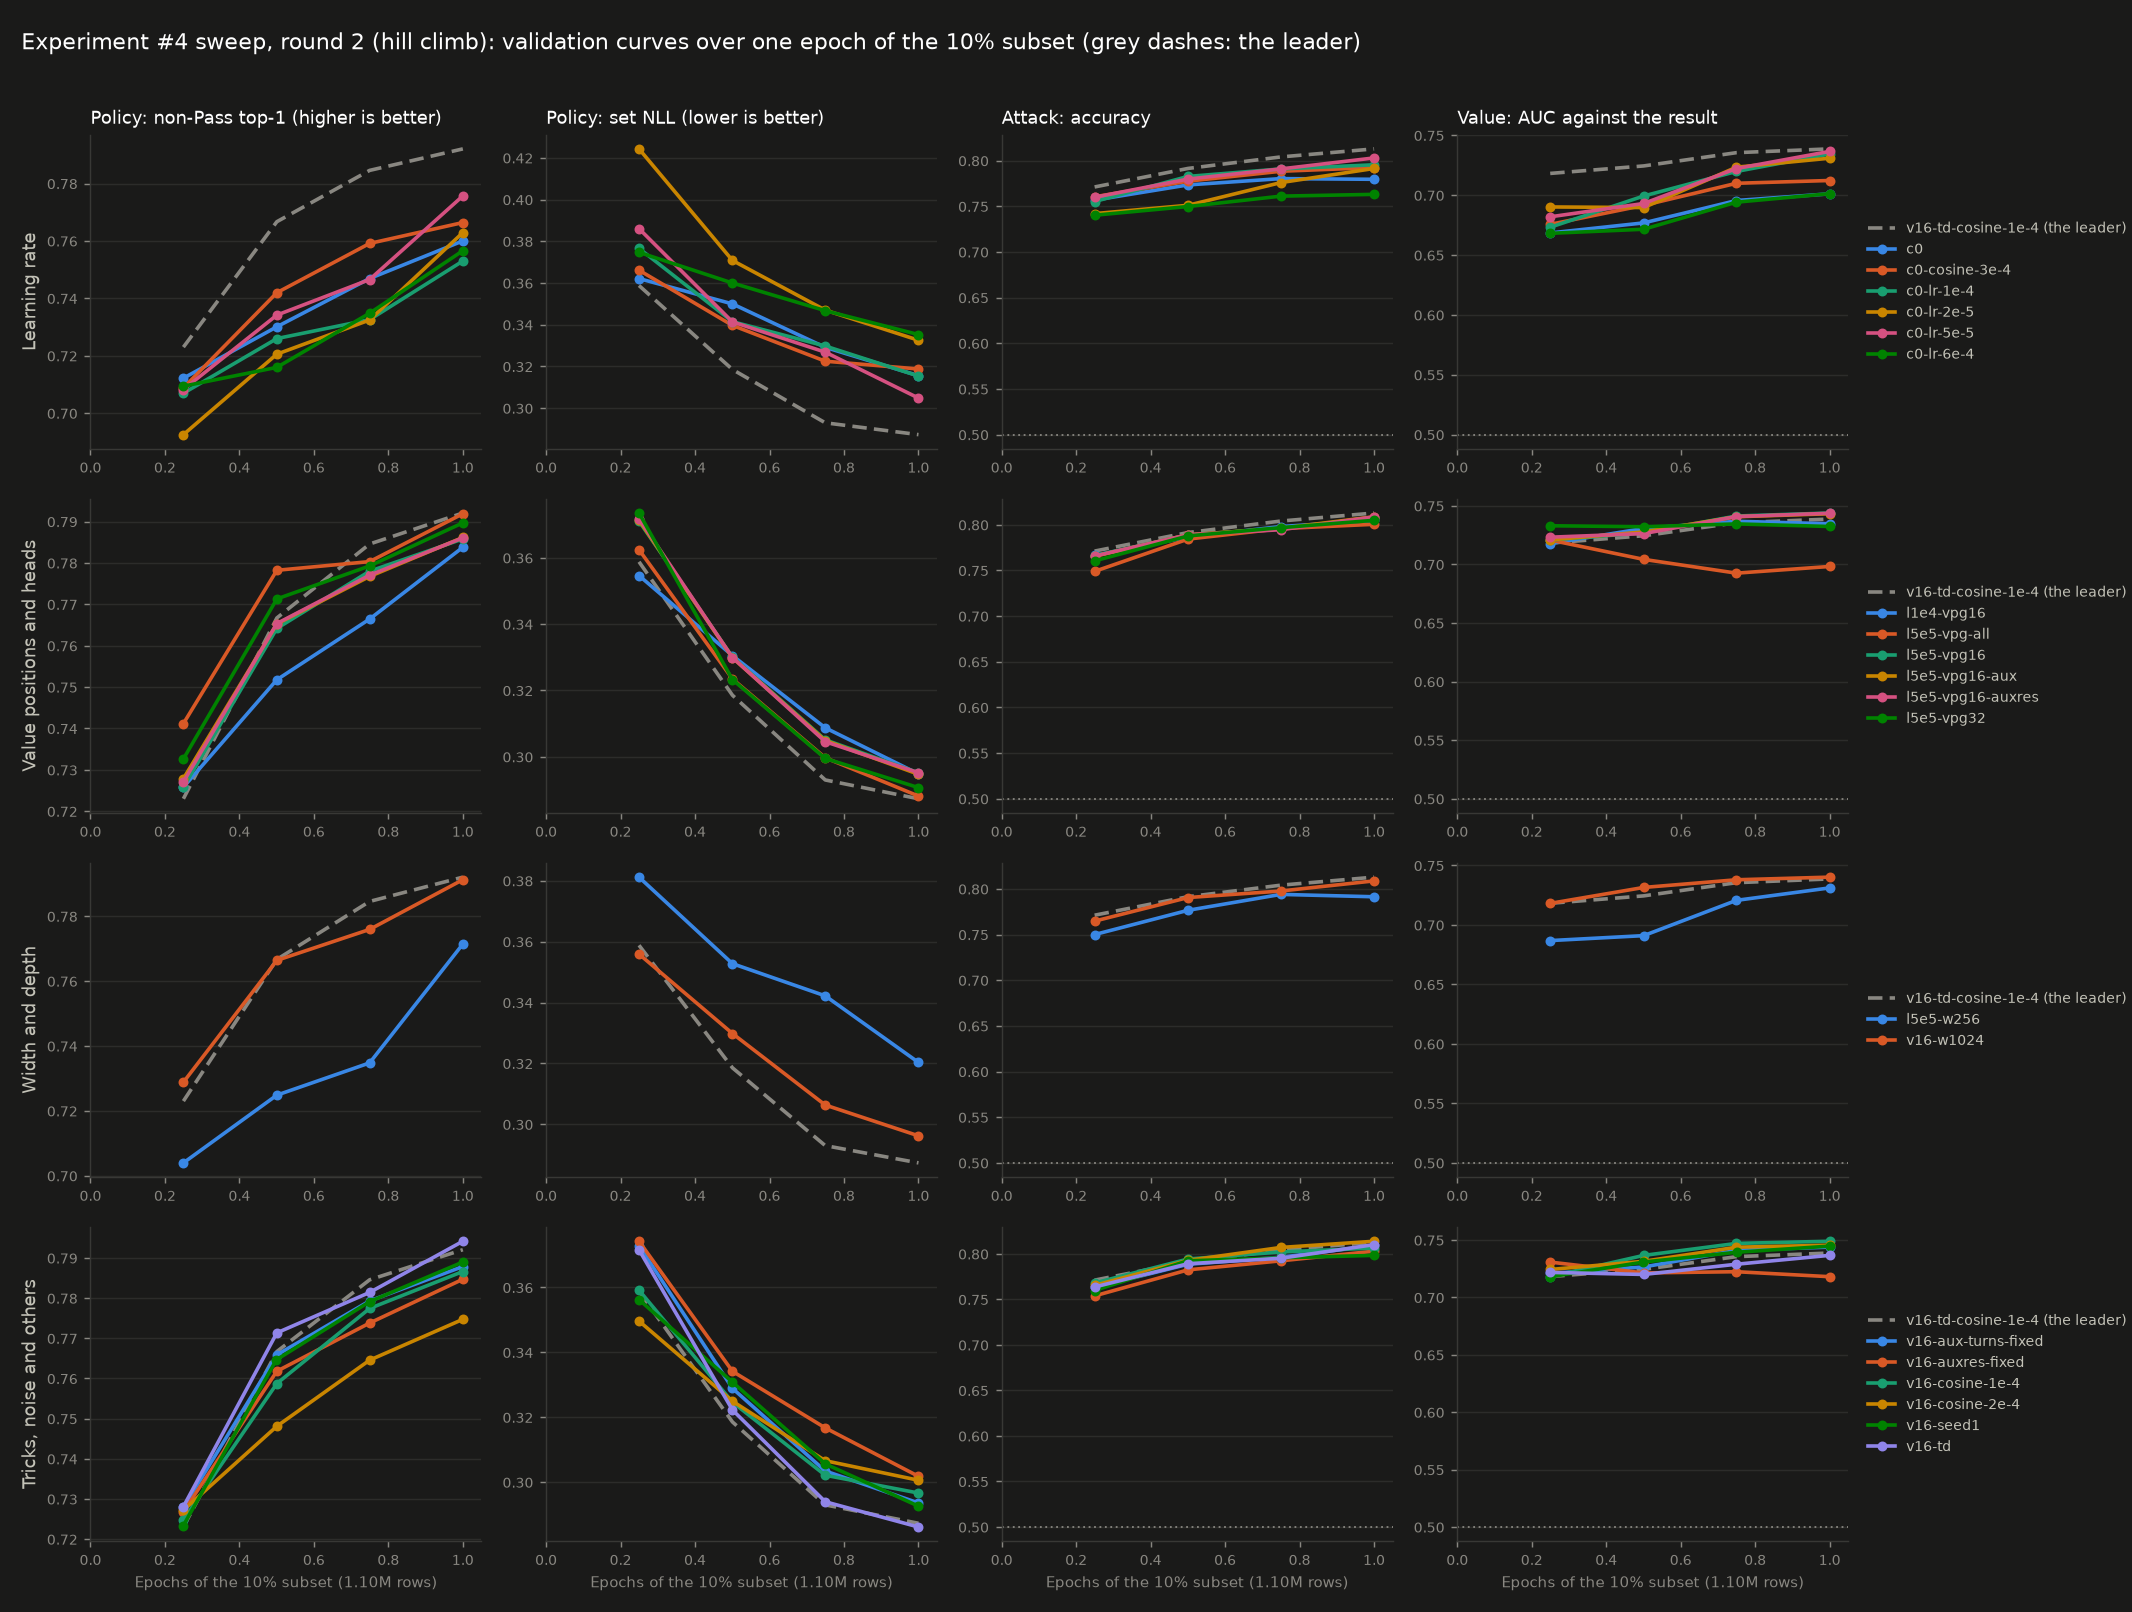
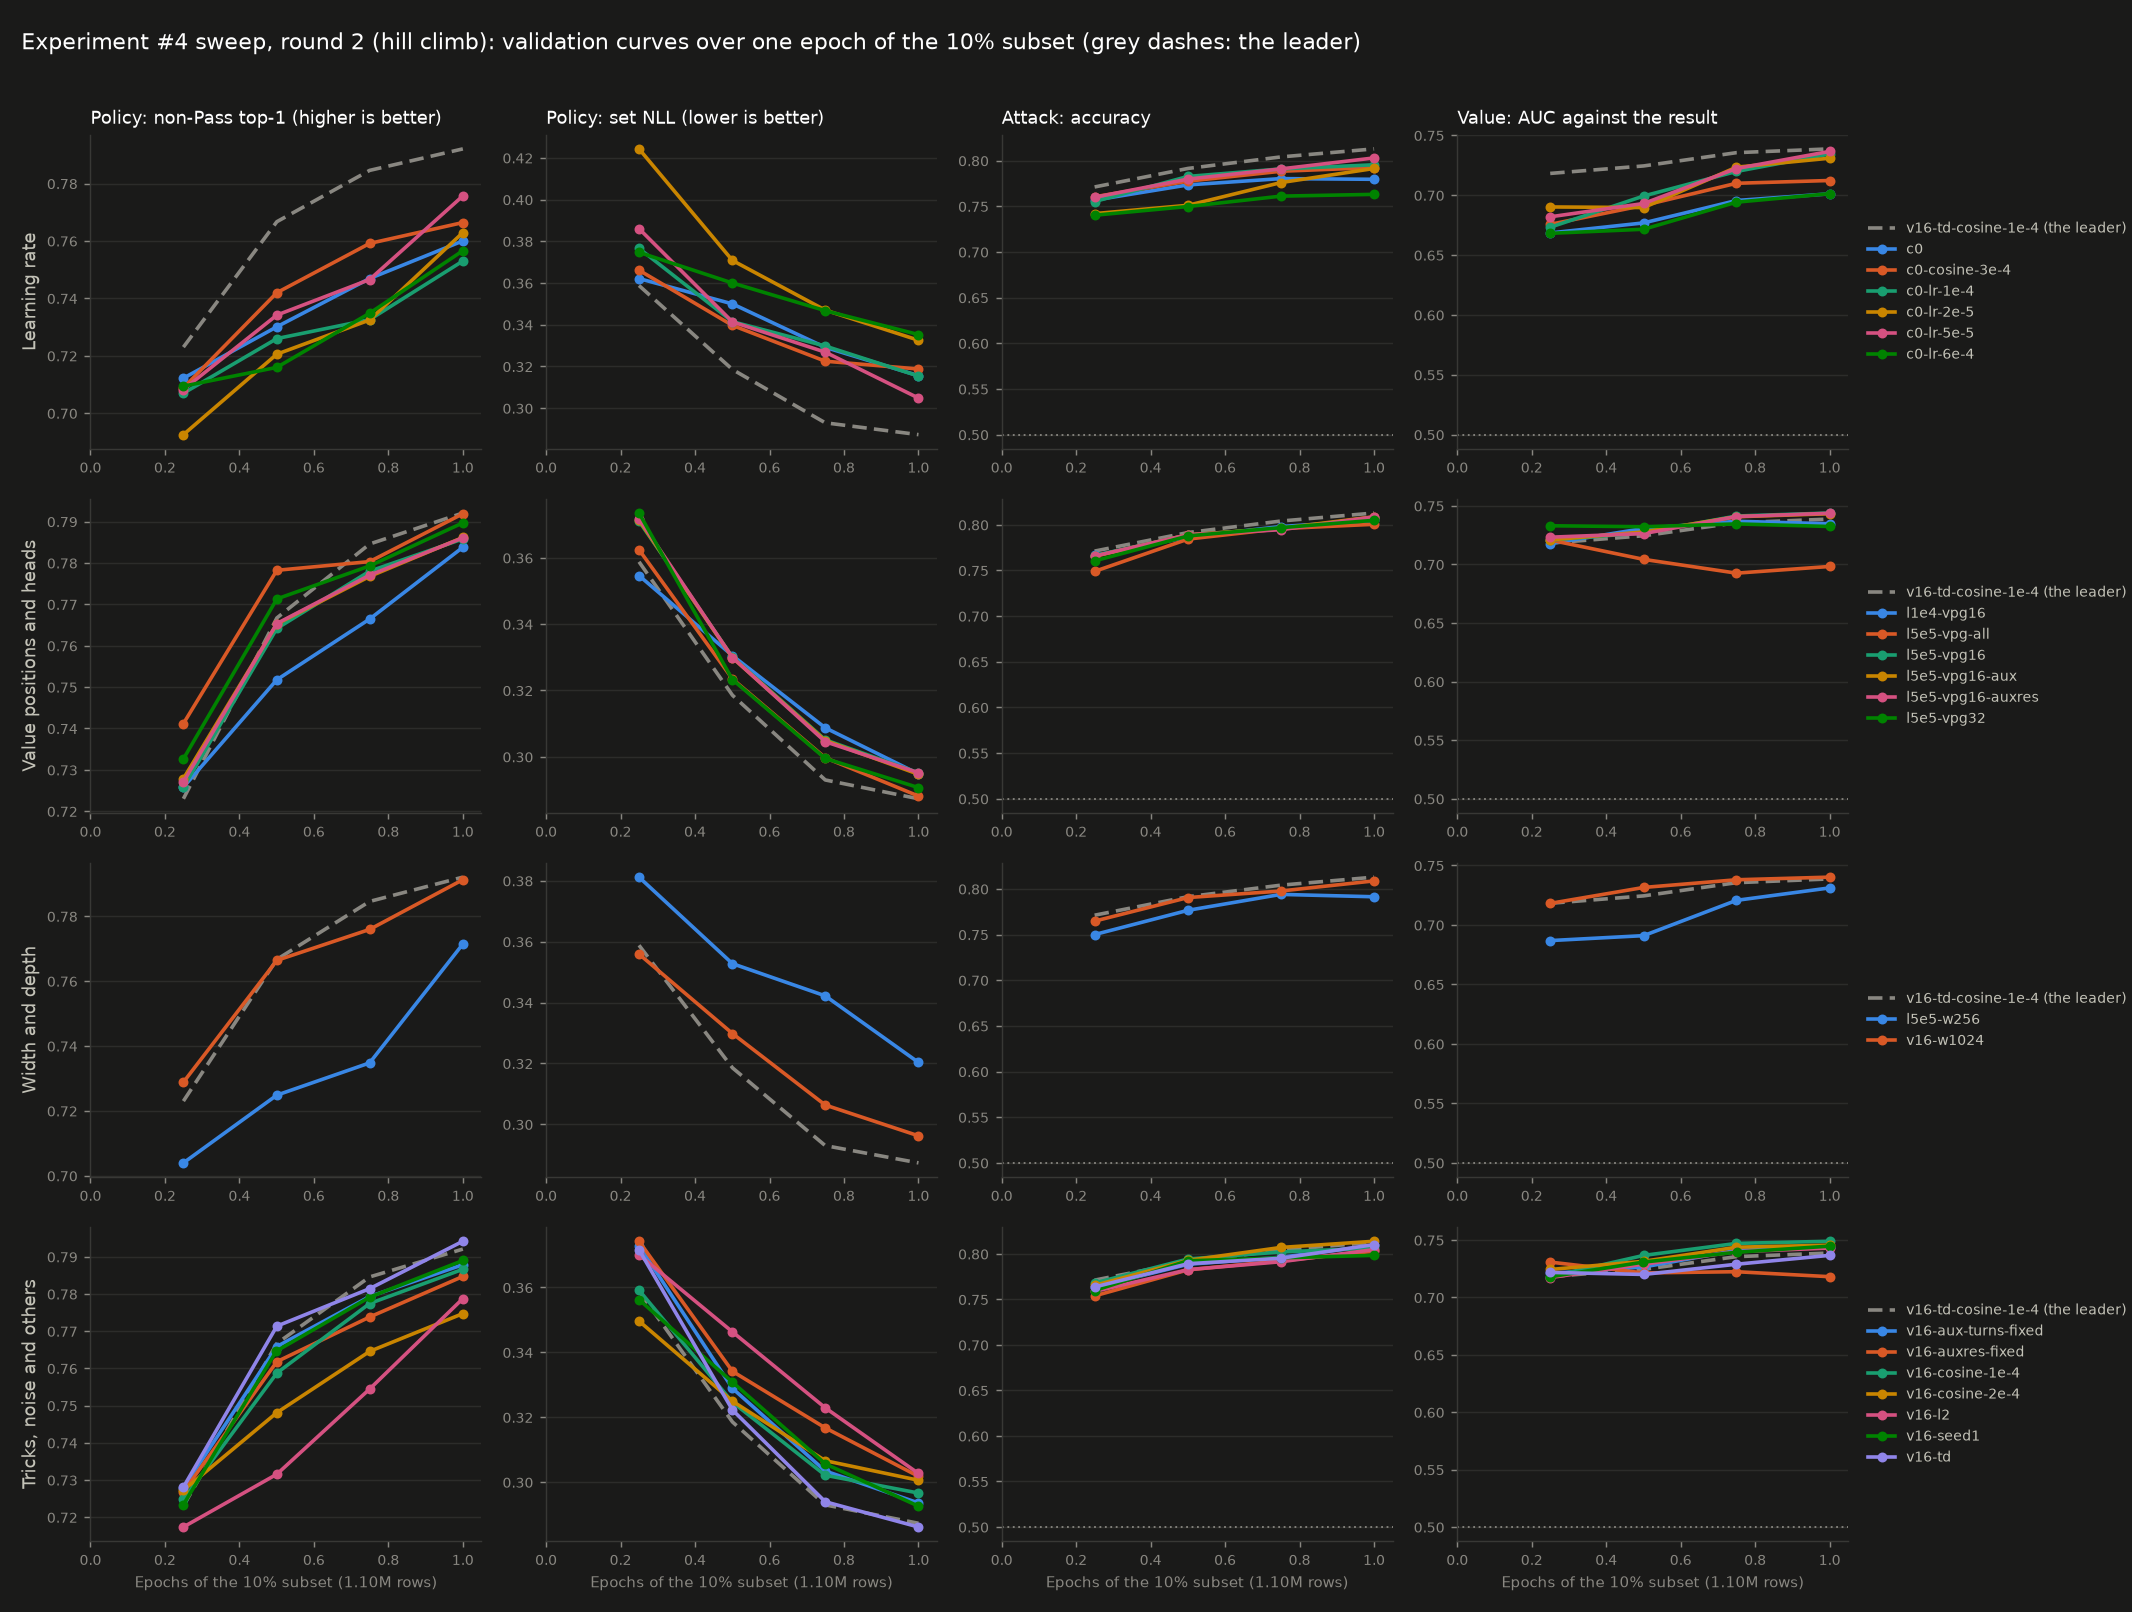
exp4: 30% data beats every recipe change (NLL 0.262 vs 0.287); queue ep3 (3 epochs of 10%) to split data from steps

Changed region(s): [[0.0619, 0.7754, 0.2167, 0.9615], [0.8668, 0.8065, 1.0, 0.8995]]

diff --git a/docs/018-experiment4-results.md b/docs/018-experiment4-results.md
@@ -290,10 +290,16 @@ first 1-layer run, stopped at 1.08 epochs, was restarted.
 | `v16-td-cosine-1e-4` | the two small gains combine: TD for the policy, cosine from 1e-4 for the value | non-Pass 0.792 (+0.006), NLL 0.287 (−0.008), attack 0.813 (+0.005), block 0.704 (+0.007), value AUC 0.739 (−0.005), log-loss 0.599 (−0.004) against l5e5-vpg16 | **the new leader:** TD's policy gain (at or past the noise bar) with the value as good as before (cosine stops TD's log-loss slip, 0.617 to 0.599). The 30% check switches to this recipe |
 | `v16-auxres-fixed` | the result head, now actually trained: the trunk gets the outcome signal on every position while the value head keeps 16 | non-Pass 0.785 (−0.001), NLL 0.302 (+0.007), value AUC 0.718 (−0.026), log-loss 0.677 (+0.074) against l5e5-vpg16 (the same recipe without it); its aux loss fell 0.36 to 0.27 (memorising) while the value log-loss rose from 0.613 | rejected: no policy gain, and the value overfits through the trunk (the trunk learns to recognise games) |
 | `v16-aux-turns-fixed` | a turns-left head, now actually trained, helps the shared trunk | every measure within ±0.005 of l5e5-vpg16 (non-Pass 0.788, NLL 0.294, value AUC 0.744); its aux loss trained (0.033) | neutral, now a valid test: a turns-left head adds nothing |
-| `v16-l2` | capacity: 2 layers help on the right recipe (round 1's 2 layers trained unstably) | *running (RunPod)* |  |
-| `v16-l4` | capacity: 4 layers help on the right recipe | *queued* |  |
-| `v16-mlp-lr-1e-4, v16-mlp-w1024-b4` | the MLP on the recipe, and a big MLP (fast enough to afford) | *queued* |  |
+| `v16-l2` | capacity: 2 layers help on the right recipe (round 1's 2 layers trained unstably) | against l5e5-vpg16 (1 layer): non-Pass 0.779 (−0.007), NLL 0.303 (+0.008), attack 0.805 (−0.003), value AUC 0.743 (−0.001); inference at 1,139 evaluations a second against 2,125 | rejected on 10%: a second layer doesn't pay here, and halves the inference speed; the 30% check (`s30-l2`) decides |
+| `v16-l4` | capacity: 4 layers help on the right recipe | *moved to the second machine as `x-l4`, on the current leader's recipe* |  |
+| `v16-mlp-lr-1e-4, v16-mlp-w1024-b4` | the MLP on the recipe, and a big MLP (fast enough to afford) | *moved to the second machine as `x-mlp`, `x-mlp-w1024-b4`, on the current leader's recipe* |  |
 | `v16-seed1` | the noise band for the leader | seed 1 against seed 0: non-Pass +0.003, NLL −0.003, attack −0.009, block +0.007, value AUC +0.001, log-loss +0.007 | the noise band on this recipe: ~0.006 on the policy (twice the difference), ~0.014 on value log-loss; TD's policy gain is probably real, cosine's value gain borderline |
+| `hw-ref (second machine)` | the leader rerun on the second machine: does other hardware reproduce round 2? | every measure within 0.001 of `v16-td-cosine-1e-4`, except targets (0.554 against 0.547); 3.4× the training speed | passed: results from the two machines mix |
+| `act-opp-3` | the passivity fix: ×3 on the policy loss of the opponent's-turn rows where the human acted | Pass on top in the opponent's turn 0.938 (humans 0.934, leader 0.971); non-Pass 0.796 (+0.004), NLL 0.281 (−0.007), other heads unchanged | **the new leader:** human-like passing and a better policy; tested at 30% next (`s30-l1-act3`) |
+| `td-0.90, td-0.975, td-0.99` | TD(λ) around the leader's 0.95 (Dan, 20:45): lower bootstraps more, higher is closer to the plain result | *queued* |  |
+| `ep3` | the leader for three epochs of the 10% subset (the 30% run's step count): data or steps? | *queued* |  |
+| `act-opp-10, act-all-3` | the passivity fix stronger (×10), and on all three priority tables (×3) | *queued* |  |
+| `x-l2, x-l4, x-mlp, x-mlp-w1024-b4` | capacity on the current leader's recipe | *queued* |  |
 
 **Overfitting checks** (Dan asked, 15:10): every curve and leaderboard number is on the validation split
 (held out by draft; never trained on); the test split is untouched until stage 3's network is scored.
@@ -324,14 +330,14 @@ so the winner's validation numbers are slightly optimistic.
 | 12 | `v16-cosine-1e-4` | transformer, 1 layer, width 512, pre-LN, lr 0.0001 cosine, emb std 0.02, warm-up 3000 | 0.787 | 0.297 | 0.806 | 0.698 | 0.542 | 0.749 | 0.592 | 98.2% | 2,158 |
 | 13 | `v16-cosine-2e-4` | transformer, 1 layer, width 512, pre-LN, lr 0.0002 cosine, emb std 0.02, warm-up 3000 | 0.775 | 0.301 | 0.814 | 0.703 | 0.566 | 0.746 | 0.601 | 97.8% | 2,158 |
 | 14 | `v16-auxres-fixed` | transformer, 1 layer, width 512, pre-LN, lr 5e-05, emb std 0.02, warm-up 3000, +result | 0.785 | 0.302 | 0.803 | 0.699 | 0.543 | 0.718 | 0.677 | 97.9% | 2,153 |
-| 15 | `c0-lr-5e-5` | transformer, 1 layer, width 512, pre-LN, lr 5e-05, emb std 0.02, warm-up 3000 | 0.776 | 0.305 | 0.803 | 0.693 | 0.534 | 0.737 | 0.645 | 97.8% | 2,156 |
-| 16 | `c0-lr-1e-4` | transformer, 1 layer, width 512, pre-LN, lr 0.0001, emb std 0.02, warm-up 3000 | 0.753 | 0.315 | 0.795 | 0.700 | 0.550 | 0.734 | 0.636 | 98.3% | 2,157 |
-| 17 | `c0` | transformer, 1 layer, width 512, pre-LN, lr 0.0003, emb std 0.02, warm-up 3000 | 0.760 | 0.316 | 0.780 | 0.688 | 0.554 | 0.701 | 0.655 | 97.8% | 2,144 |
-| 18 | `c0-cosine-3e-4` | transformer, 1 layer, width 512, pre-LN, lr 0.0003 cosine, emb std 0.02, warm-up 3000 | 0.766 | 0.319 | 0.792 | 0.691 | 0.551 | 0.712 | 0.654 | 99.8% | 2,151 |
-| 19 | `l5e5-w256` | transformer, 1 layer, width 256, pre-LN, lr 5e-05, emb std 0.02, warm-up 3000 | 0.771 | 0.320 | 0.791 | 0.694 | 0.542 | 0.731 | 0.671 | 99.5% | 5,374 |
-| 20 | `c0-lr-2e-5` | transformer, 1 layer, width 512, pre-LN, lr 2e-05, emb std 0.02, warm-up 3000 | 0.763 | 0.333 | 0.791 | 0.689 | 0.498 | 0.731 | 0.671 | 99.8% | 2,141 |
-| 21 | `c0-lr-6e-4` | transformer, 1 layer, width 512, pre-LN, lr 0.0006, emb std 0.02, warm-up 3000 | 0.757 | 0.335 | 0.763 | 0.684 | 0.556 | 0.701 | 0.634 | 99.5% | 2,167 |
-| – | `v16-l2` *(at 0.00 epoch)* | transformer, 2 layers, width 512, pre-LN, lr 5e-05, emb std 0.02, warm-up 3000 | 0.472 | 0.929 | 0.495 | 0.394 | 0.285 | 0.490 | 0.673 | 66.5% | – |
+| 15 | `v16-l2` | transformer, 2 layers, width 512, pre-LN, lr 5e-05, emb std 0.02, warm-up 3000 | 0.779 | 0.303 | 0.805 | 0.696 | 0.542 | 0.743 | 0.603 | 97.6% | 1,139 |
+| 16 | `c0-lr-5e-5` | transformer, 1 layer, width 512, pre-LN, lr 5e-05, emb std 0.02, warm-up 3000 | 0.776 | 0.305 | 0.803 | 0.693 | 0.534 | 0.737 | 0.645 | 97.8% | 2,156 |
+| 17 | `c0-lr-1e-4` | transformer, 1 layer, width 512, pre-LN, lr 0.0001, emb std 0.02, warm-up 3000 | 0.753 | 0.315 | 0.795 | 0.700 | 0.550 | 0.734 | 0.636 | 98.3% | 2,157 |
+| 18 | `c0` | transformer, 1 layer, width 512, pre-LN, lr 0.0003, emb std 0.02, warm-up 3000 | 0.760 | 0.316 | 0.780 | 0.688 | 0.554 | 0.701 | 0.655 | 97.8% | 2,144 |
+| 19 | `c0-cosine-3e-4` | transformer, 1 layer, width 512, pre-LN, lr 0.0003 cosine, emb std 0.02, warm-up 3000 | 0.766 | 0.319 | 0.792 | 0.691 | 0.551 | 0.712 | 0.654 | 99.8% | 2,151 |
+| 20 | `l5e5-w256` | transformer, 1 layer, width 256, pre-LN, lr 5e-05, emb std 0.02, warm-up 3000 | 0.771 | 0.320 | 0.791 | 0.694 | 0.542 | 0.731 | 0.671 | 99.5% | 5,374 |
+| 21 | `c0-lr-2e-5` | transformer, 1 layer, width 512, pre-LN, lr 2e-05, emb std 0.02, warm-up 3000 | 0.763 | 0.333 | 0.791 | 0.689 | 0.498 | 0.731 | 0.671 | 99.8% | 2,141 |
+| 22 | `c0-lr-6e-4` | transformer, 1 layer, width 512, pre-LN, lr 0.0006, emb std 0.02, warm-up 3000 | 0.757 | 0.335 | 0.763 | 0.684 | 0.556 | 0.701 | 0.634 | 99.5% | 2,167 |
 
 <picture>
   <source media="(prefers-color-scheme: dark)" srcset="img/018-sweep-r2-dark.png">
@@ -389,6 +395,24 @@ opponent's-turn rows where the human acted (`act_weights: {opp_priority: 3.0}`),
 - **Next:** ×10 on the same table (`act-opp-10`) and ×3 on all three priority tables (`act-all-3`) are queued
   after the TD(λ) runs, and the 30% check gets the fix too (`s30-l1-act3`, next after `s30-l2`). If it holds
   at 30%, stage 3 trains with it.
+
+**The first 30% run: three times the games beat every recipe change (20:49).** `s30-l1`, the leader's recipe on
+30% of the training games for one epoch (62.8k steps, 22.7 minutes), against the same recipe on 10% (`hw-ref`):
+
+| | Non-Pass top-1 | Set NLL | Attack | Block | Targets | Value AUC | Value log-loss |
+|---|---|---|---|---|---|---|---|
+| 10%, one epoch (`hw-ref`) | 0.792 | 0.287 | 0.813 | 0.703 | 0.554 | 0.739 | 0.599 |
+| 30%, one epoch (`s30-l1`) | **0.808** | **0.262** | **0.830** | **0.716** | **0.618** | **0.758** | **0.569** |
+| Change | +0.016 | −0.025 | +0.017 | +0.013 | +0.064 | +0.019 | −0.030 |
+
+- **Every head gains, by 3–10× the noise band.** Round 2's whole hill climb moved the set NLL by 0.029 (c0's 0.316
+  to 0.287); tripling the data moves it another 0.025. Spell targets, the smallest table, gain the most.
+- **The value head overfits less.** Its log-loss falls 0.030 with three times the games to memorise.
+- **Data or steps?** The 30% run also took three times the steps. A quarter of the way in (as many steps as
+  the 10% run's three quarters) it was behind (NLL 0.322 against 0.294), because the cosine rate was still high.
+  So the leader runs for three epochs of the 10% subset next (`ep3`, the same step count): if it gets close
+  to 0.262, repeating data is nearly as good as new data and stage 3 can train several epochs; if not, the
+  gain is the data, and stage 3 should see all of it with few repeats.
 
 ## Stage 4: cheap evaluation (sb-v2)
 
